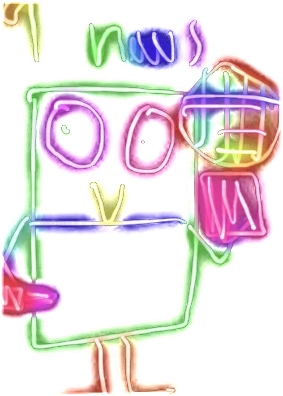
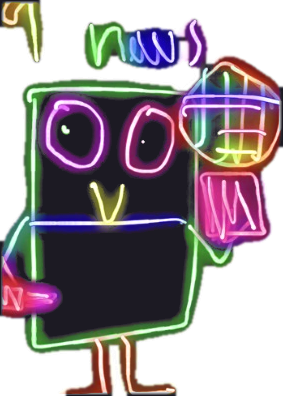
Make Milbil.io's island black so the glowing milbils stand out
The island is now black with a glowing purple line round its edge, and
trails glow in their milbil's colour. Drawn milbils get a glow in their
own colour. Greta's drawings have the island's black inside their bodies
instead of white, so they look like neon signs, on the island and on top
of coloured land. On the start screen and the "caught" card the milbils
sit on black tiles so they glow there too, and the mini-map has a
glowing ring.

Claude-Session: https://claude.ai/code/session_0166sEf9sP33LZuFhuNFmzwU

diff --git a/milbil-io/css/style.css b/milbil-io/css/style.css
@@ -1,6 +1,8 @@
 /* ---------- Milbil.io ----------
    Milbil Café's look: chunky rounded lettering, white cards and buttons with a
-   darker bottom edge, and purple. The island itself is drawn on the canvas. */
+   darker bottom edge, and purple. The island itself is drawn on the canvas, in
+   black so the glowing milbils stand out; milbil pictures sit on the same
+   black (--night) everywhere else too. */
 
 :root {
   --purple: #8a47e6;
@@ -12,6 +14,8 @@
   --soft: #f4effc;
   --green: #2fbf4c;
   --green-d: #1f9a39;
+  --night: #0d0b14;
+  --glow: #8a47e6;
   --edge: inset 0 -5px 0 rgba(0, 0, 0, .22);
   --edge-sm: inset 0 -3px 0 rgba(0, 0, 0, .2);
   --safe-t: env(safe-area-inset-top, 0px);
@@ -32,7 +36,7 @@ html, body {
   -webkit-touch-callout: none;
   -webkit-tap-highlight-color: transparent;
 }
-body { font-family: var(--font); font-weight: 800; color: var(--ink); background: #cbbef0; }
+body { font-family: var(--font); font-weight: 800; color: var(--ink); background: #020104; }
 button { font: inherit; color: inherit; cursor: pointer; border: 0; -webkit-tap-highlight-color: transparent; touch-action: manipulation; }
 h1, h2, p { margin: 0; }
 [hidden] { display: none !important; }
@@ -94,7 +98,7 @@ b, strong { font-weight: 900; }
 .mini {
   position: absolute; right: calc(var(--safe-r) + 10px); bottom: calc(var(--safe-b) + 10px);
   width: 96px; height: 96px; border-radius: 50%;
-  background: #cbbef0; box-shadow: 0 0 0 4px #fff, 0 5px 0 4px #0002;
+  background: #020104; box-shadow: 0 0 0 3px var(--glow), 0 0 16px 3px #8a47e699;
 }
 @media (min-width: 700px) and (min-height: 600px) {
   .mini { width: 130px; height: 130px; }
@@ -182,14 +186,15 @@ b, strong { font-weight: 900; }
 }
 .pick {
   display: flex; flex-direction: column; align-items: center; gap: 1px;
-  padding: 6px 2px 7px; border-radius: 12px; background: var(--soft); box-shadow: var(--edge-sm);
+  padding: 6px 2px 7px; border-radius: 12px; background: var(--night); box-shadow: var(--edge-sm);
   border-bottom: 5px solid var(--c);
 }
 .pick-pic { height: 56px; display: flex; align-items: flex-end; justify-content: center; }
 .pick .milbil { height: 56px; width: auto; max-width: 60px; display: block; overflow: visible; }
-.pick small { font-size: 10.5px; line-height: 1.1; color: var(--muted); max-width: 100%; overflow-wrap: anywhere; padding: 0 2px; }
-.pick.on { background: #fff; box-shadow: var(--edge-sm), 0 0 0 3px var(--purple); }
-.pick.on small { color: var(--ink); }
+.pick small { font-size: 10.5px; line-height: 1.1; color: #b9b0cc; max-width: 100%; overflow-wrap: anywhere; padding: 0 2px; }
+.pick .milbil:not(.art) { filter: drop-shadow(0 0 4px var(--c)); }
+.pick.on { box-shadow: var(--edge-sm), 0 0 0 3px var(--purple), 0 0 14px 2px #8a47e6aa; }
+.pick.on small { color: #fff; }
 
 .levels { display: grid; grid-template-columns: repeat(3, 1fr); gap: 6px; }
 .lvl {
@@ -220,7 +225,7 @@ b, strong { font-weight: 900; }
 .welcome { background: linear-gradient(160deg, #7b3fd98c, #4c1fa0b3); }
 
 /* ========================================================== caught! === */
-.over-pic { display: flex; justify-content: center; }
+.over-pic { display: flex; justify-content: center; align-self: center; padding: 10px 26px 6px; border-radius: 18px; background: var(--night); }
 .over-pic .milbil { height: 96px; width: auto; display: block; overflow: visible; animation: wobble 1.6s ease-in-out infinite; }
 @keyframes wobble { 25% { transform: rotate(-6deg); } 75% { transform: rotate(6deg); } }
 .over-msg { font-family: var(--title); font-weight: var(--title-weight); font-size: 24px; line-height: 1.2; }

diff --git a/milbil-io/js/draw.js b/milbil-io/js/draw.js
@@ -5,7 +5,7 @@
 // milbils on top. Only the cells on screen are drawn.
 
 import { world, owner, inside, W, MID, cellAt } from './world.js';
-import { RADIUS, VIEW, LIFT, SEA, GROUND, GROUND_2, EDGE } from './data.js';
+import { RADIUS, VIEW, LIFT, SEA, GROUND, GROUND_2, GROUND_RGB, SIDE, RIM } from './data.js';
 import { rainbowAt } from './colors.js';
 import { sprite } from './sprites.js';
 
@@ -128,13 +128,16 @@ function drawTrails(t){
     ctx.moveTo(sx(p.pts[0].x), sy(p.pts[0].y));
     for (let k = 1; k < p.pts.length; k++) ctx.lineTo(sx(p.pts[k].x), sy(p.pts[k].y));
     ctx.lineTo(sx(p.x), sy(p.y));
-    ctx.globalAlpha = .4;
-    ctx.strokeStyle = pal.rainbow ? '#6a4bc4' : pal.side;
-    ctx.lineWidth = s * .8;
+    const color = pal.rainbow ? pal.trail(t) : pal.trail;
+    ctx.strokeStyle = color;
+    ctx.globalAlpha = .14;              // a soft glow round it
+    ctx.lineWidth = s * 1.15;
+    ctx.stroke();
+    ctx.globalAlpha = .3;
+    ctx.lineWidth = s * .82;
     ctx.stroke();
     ctx.globalAlpha = .95;
-    ctx.strokeStyle = pal.rainbow ? pal.trail(t) : pal.trail;
-    ctx.lineWidth = s * .56;
+    ctx.lineWidth = s * .52;
     ctx.stroke();
     ctx.globalAlpha = 1;
   }
@@ -157,12 +160,12 @@ function drawMilbil(p, L, dt, crown, you){
   const H = 2.5 * s;
   const sp = sprite(p.ch);
   if (sp.ready){
-    const wd = H * sp.img.width / sp.img.height;
+    const ht = H * sp.scale, wd = ht * sp.img.width / sp.img.height;
     const bob = Math.abs(Math.sin(p.walk)) * .14 * s;
     ctx.save();
     ctx.translate(fx, fy - bob);
     ctx.rotate(Math.cos(p.dir) * .12 + Math.sin(p.walk) * .05);
-    ctx.drawImage(sp.img, -wd / 2, -H * sp.foot, wd, H);
+    ctx.drawImage(sp.img, -wd / 2, -ht * sp.foot, wd, ht);
     ctx.restore();
   }
 
@@ -224,10 +227,20 @@ export function render(t, dt, leaderId, youId){
   ctx.fillRect(0, 0, w, h);
 
   const ox = sx(MID), oy = sy(MID), R = RADIUS * s;
-  ctx.fillStyle = EDGE;
+  ctx.fillStyle = SIDE;
   oval(ox, oy + L * 2, R + s * .25, R + s * .25);
   ctx.fillStyle = GROUND;
   oval(ox, oy, R, R);
+  // A glowing line round the island.
+  ctx.strokeStyle = RIM;
+  for (const [alpha, width] of [[.12, 1.6], [.25, .9], [1, .22]]){
+    ctx.globalAlpha = alpha;
+    ctx.lineWidth = s * width;
+    ctx.beginPath();
+    ctx.arc(ox, oy, R + s * .1, 0, TAU);
+    ctx.stroke();
+  }
+  ctx.globalAlpha = 1;
 
   ctx.save();
   ctx.beginPath();
@@ -245,7 +258,6 @@ export function render(t, dt, leaderId, youId){
 // ------------------------------------------------------------- mini-map ---
 
 let mini, mctx, flat, fctx, pixels;
-const GROUND_RGB = [251, 249, 255];
 
 export function initMini(el){
   mini = el;

diff --git a/milbil-io/js/sprites.js b/milbil-io/js/sprites.js
@@ -2,25 +2,39 @@
 //
 // Each milbil is drawn once into a small canvas, which is much quicker to put
 // on the board sixty times a second than an SVG or a big PNG. Drawn milbils
-// come from milbil.js; the rest are Greta's own drawings in art/.
+// come from milbil.js, and get a glow in their own colour so they light up the
+// black island the way Greta's drawings do. The rest are Greta's own drawings
+// in art/, which glow already.
 
 import { drawLook } from './milbil.js';
 
 const HEIGHT = 192;                 // pixels, about twice what the board ever needs
+const GLOW = 14;                    // pixels of glow round a drawn milbil
 const cache = new Map();
 
-/** { ready, img, foot } where foot is how far down the picture the feet are. */
+/** { ready, img, foot, scale }: foot is how far down the picture the feet are,
+ *  and scale is how much taller the picture is than the milbil (for its glow). */
 export function sprite(ch){
   let s = cache.get(ch.id);
   if (s) return s;
-  s = { ready: false, img: null, foot: ch.art ? .985 : .962 };
+  s = { ready: false, img: null, foot: ch.art ? .985 : .962, scale: 1 };
   cache.set(ch.id, s);
   const img = new Image();
   img.onload = () => {
     const w = Math.round(HEIGHT * img.naturalWidth / img.naturalHeight) || Math.round(HEIGHT * 88 / 106);
+    const pad = ch.art ? 0 : GLOW;
     const c = document.createElement('canvas');
-    c.width = w; c.height = HEIGHT;
-    c.getContext('2d').drawImage(img, 0, 0, w, HEIGHT);
+    c.width = w + pad * 2; c.height = HEIGHT + pad * 2;
+    const g = c.getContext('2d');
+    if (pad){
+      g.shadowColor = ch.look.line === 'rainbow' ? '#c49bff' : ch.look.line;
+      g.shadowBlur = GLOW;
+      g.drawImage(img, pad, pad, w, HEIGHT);       // twice, for a stronger glow
+      g.shadowBlur = GLOW / 2;
+    }
+    g.drawImage(img, pad, pad, w, HEIGHT);
+    s.foot = (pad + s.foot * HEIGHT) / c.height;
+    s.scale = c.height / HEIGHT;
     s.img = c;
     s.ready = true;
   };

diff --git a/milbil-io/js/data.js b/milbil-io/js/data.js
@@ -75,8 +75,10 @@ export const SPARE_COLORS = [
   '#2ec4b6', '#9ef01a', '#c77dff', '#f15bb5', '#00bbf9', '#8ac926', '#ff924c', '#e85d75',
 ];
 
-// The island's own colours.
-export const SEA = '#cbbef0';       // round the edge of the island
-export const GROUND = '#fbf9ff';    // land nobody owns yet
-export const GROUND_2 = '#f1ecfb';  // its checks
-export const EDGE = '#a993dd';      // the island's rim
+// The island's own colours: black, so glowing milbils stand out.
+export const SEA = '#020104';       // round the edge of the island
+export const GROUND = '#0d0b14';    // land nobody owns yet
+export const GROUND_2 = '#12101a';  // its checks, just enough to see you're moving
+export const SIDE = '#1e1533';      // the island's edge, seen from the side
+export const RIM = '#8a47e6';       // the glowing line round the island
+export const GROUND_RGB = [13, 11, 20];

diff --git a/milbil-io/index.html b/milbil-io/index.html
@@ -6,7 +6,7 @@
   <meta name="apple-mobile-web-app-capable" content="yes">
   <meta name="mobile-web-app-capable" content="yes">
   <meta name="apple-mobile-web-app-status-bar-style" content="black-translucent">
-  <meta name="theme-color" content="#6b35c9">
+  <meta name="theme-color" content="#0d0b14">
   <title>Milbil.io</title>
   <link rel="manifest" href="manifest.json">
   <link rel="icon" href="icon.svg" type="image/svg+xml">

diff --git a/milbil-io/js/colors.js b/milbil-io/js/colors.js
@@ -54,9 +54,9 @@ export function palette(color){
   return {
     rainbow: false, css: color,
     land: hex(mix(c, WHITE, .12)),
-    side: hex(mix(c, BLACK, .32)),
+    side: hex(mix(c, BLACK, .4)),
     ink: hex(mix(c, BLACK, .5)),
     mini: c,
-    trail: hex(mix(c, WHITE, .42)),
+    trail: hex(mix(c, WHITE, .3)),
   };
 }

diff --git a/milbil-io/README.md b/milbil-io/README.md
@@ -1,7 +1,8 @@
 # 🟪 Milbil.io
 
-paper.io, with milbils. You walk a milbil around a round island. Walk out of your
-land and you leave a trail behind you. Come back in and the trail, and
+paper.io, with milbils. You walk a milbil around a round black island, where
+the glowing milbils stand out. Walk out of your land and you leave a trail
+behind you. Come back in and the trail, and
 everything inside it, becomes your land. Cut through another milbil's trail to
 catch it. But if anyone touches *your* trail before you're home, you're caught.
 
@@ -96,12 +97,20 @@ All in `js/data.js`.
 
 ## The milbils
 
+The island is black so the milbils glow on it, with a glowing purple line
+round its edge. Trails glow in their milbil's colour.
+
 Drawn milbils are drawn the way Greta draws them: a tall box with a line
 across the middle, stick arms and stick legs, plus a hat or a feature or two.
 They're the same 21 kinds as in Milbil Café and Milbil GO (`js/milbil.js` is
-copied from Milbil Café). Greta's five drawings are the same pictures as in
-Milbil Café, with the insides of their bodies filled in white so they show up
-on top of coloured land.
+copied from Milbil Café). On the island each one gets a glow in its own colour
+(`js/sprites.js`).
+
+Greta's five drawings are the same glowing pictures as in Milbil Café, with
+the insides of their bodies filled in with the island's black. On the black
+island they look like neon signs, and on top of coloured land their dark
+bodies keep the glowing lines easy to see. On the start screen and the
+"caught" card they sit on black tiles too, so they glow there as well.
 
 When two milbils on the island would have land of nearly the same colour, the
 second one gets a different colour, so everyone's land is easy to tell apart.
